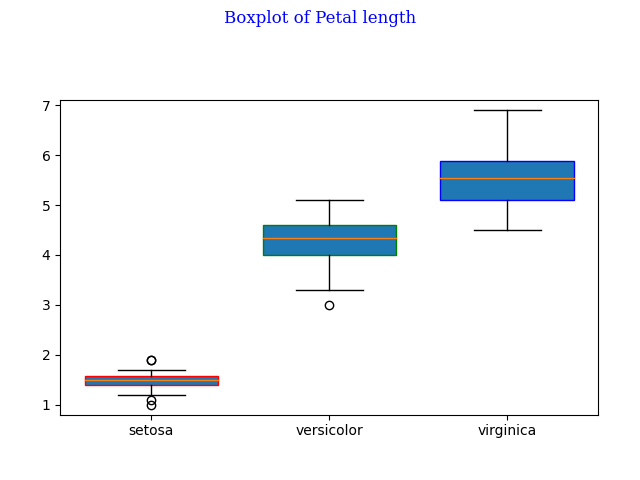
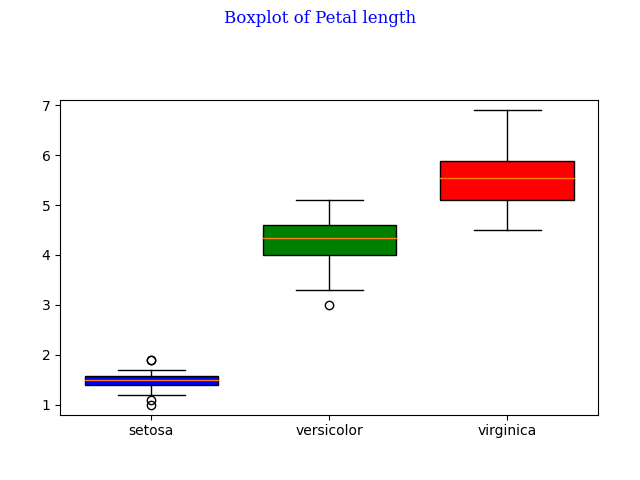
updated boxplots in analysis.py

Changed region(s): [[0.6875, 0.3125, 0.9062, 0.4375], [0.4062, 0.4688, 0.625, 0.5625], [0.125, 0.7812, 0.3438, 0.8125]]

diff --git a/analysis.py b/analysis.py
@@ -222,9 +222,9 @@ def create_boxplot(df, variable): #The function takes in two parameters, the dat
 
     #Create the boxplot for the variable for each species on the one plot. Therefore three boxplots will b
     #created on the same plot.
-    ax.boxplot(setosa[variable], positions=[2], widths=1.5, patch_artist=True, labels=['setosa'], boxprops=dict(color=colors[0]))
-    ax.boxplot(versicolor[variable], positions=[4], widths=1.5, patch_artist=True, labels=['versicolor'], boxprops=dict(color=colors[1]))
-    ax.boxplot(virginica[variable], positions=[6], widths=1.5, patch_artist=True, labels=['virginica'], boxprops=dict(color=colors[2]))
+    ax.boxplot(setosa[variable], positions=[2], widths=1.5, patch_artist=True, labels=['setosa'], boxprops=dict(facecolor=colors[2], color='black'))
+    ax.boxplot(versicolor[variable], positions=[4], widths=1.5, patch_artist=True, labels=['versicolor'], boxprops=dict(facecolor=colors[1], color='black'))
+    ax.boxplot(virginica[variable], positions=[6], widths=1.5, patch_artist=True, labels=['virginica'], boxprops=dict(facecolor=colors[0], color='black'))
 
     #Set the font for the x and y axis labels and the title 
     font1 = {'family':'serif','color':'blue','size':20}
